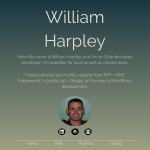
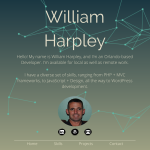
Change Header

diff --git a/wp-content/themes/fathersjourney/style.css b/wp-content/themes/fathersjourney/style.css
@@ -59,6 +59,11 @@ header {
 
 .page-header {
 	color: #fff;
+	margin-top: 20px;
+}
+
+#header-col {
+	margin-bottom: 0;
 }
 
 /******************************
@@ -156,7 +161,7 @@ li a {
 .overlay {
 	background: linear-gradient(
     rgba(0, 0, 0, .65), 
-    rgba(0, 0, 0, 1)
+    rgba(0, 0, 0, .9)
   );
   bottom: 0;
   left: 0;
@@ -234,6 +239,10 @@ li a {
 	margin-bottom: 30px;
 }
 
+.reading-col ul {
+	color: #000;
+}
+
 /******************************
 				ABOUT PAGE
 ******************************/
@@ -275,7 +284,7 @@ li a {
 }
 
 .wptreehouse-badge {
-	/*display: none;*/
+	display: none;
 }
 
 /******************************

diff --git a/wp-content/themes/fathersjourney/js/app.js b/wp-content/themes/fathersjourney/js/app.js
@@ -10,11 +10,7 @@ jQuery(document).ready(function($) {
 
 	$( '.show-badges' ).on( 'click', function(event) {
 		var link = $( '.show-badges' );
-		num = $('.wptreehouse-badge').length;
 
-		$('.wptreehouse-badge').toggle().each();
-		
-/*
 		$( '.wptreehouse-badge' ).toggle( 'fast', function() {
       if ($( '.wptreehouse-badge' ).is( ':visible' ))  {
            link.text( 'Hide Badges' );                
@@ -22,7 +18,7 @@ jQuery(document).ready(function($) {
            link.text( 'Show Badges' );                
       }        
     }); 
-*/
+
 	});
 	
 });

diff --git a/wp-content/themes/fathersjourney/single-travels.php b/wp-content/themes/fathersjourney/single-travels.php
@@ -3,22 +3,23 @@
   <div class="small-12 columns">
     <div class="page-header">
       <div class="row">
-        <div class="small-9 columns">
-          <a href="<?php the_field('link'); ?>"><h2><?php wp_title(''); ?></h2></a>
+      <div class="row">
+        <div class="small-9 columns" id="header-col">
+          <h2><?php wp_title(''); ?></h2>
         </div>
-        <div class="small-3 columns prev-next">
-          <?php next_post_link('%link', '<span class="glyphicon glyphicon-circle-arrow-left"></span>'); ?>
-          <!-- Uses the id # of the Ballparks Page -->  
-          <a href="<?php bloginfo('url'); ?>/?p=58"><span class="glyphicon glyphicon-th"></span></a>
-          <?php previous_post_link('%link', '<span class="glyphicon glyphicon-circle-arrow-right"></span>'); ?>
+        <div class="small-3 columns prev-next" id="header-col">
+          <?php next_post_link('%link', '<i class="fi-arrow-left"></i>'); ?> 
+          <a href="<?php bloginfo('url'); ?>/?p=77"><i class="fi-thumbnails"></i></a>
+          <?php previous_post_link('%link', '<i class="fi-arrow-right"></i>'); ?>
         </div>
       </div>
-      
+      </div>    
       <hr>
     </div>
     <div class="row">
-      <div class="small-12 medium-9 columns ">
+      <div class="small-12 medium-9 columns">
         <div class="reading-col">
+
 		    	<?php if ( have_posts() ) : while ( have_posts() ) : the_post(); ?>
 
               <?php if ( get_the_post_thumbnail() ) : ?>
@@ -42,7 +43,7 @@
         </div>
       </div>
 
-      <?php get_sidebar('projects'); ?>
+      <?php get_sidebar(); ?>
 
 		</div>
 	</div>

diff --git a/wp-content/themes/fathersjourney/single-projects.php b/wp-content/themes/fathersjourney/single-projects.php
@@ -2,22 +2,20 @@
 <div class="container">
   <div class="small-12 columns">
     <div class="page-header">
-      <!--<div class="row">-->
-        <div class="small-9 columns">
-          <a href="<?php the_field('link'); ?>"><h2><?php wp_title(''); ?></h2></a>
-        </div>
-        <div class="small-3 columns prev-next">
-          <?php next_post_link('%link', '<i class="fi-arrow-left"></i>'); ?> 
-          <a href="<?php bloginfo('url'); ?>/?p=69"><i class="fi-thumbnails"></i></a>
-          <?php previous_post_link('%link', '<i class="fi-arrow-right"></i>'); ?>
-        </div>
-     <!-- </div>-->
-      
+      <div class="small-9 columns" id="header-col">
+        <a href="<?php the_field('link'); ?>"><h2><?php wp_title(''); ?></h2></a>
+      </div>
+      <div class="small-3 columns prev-next" id="header-col">
+        <?php next_post_link('%link', '<i class="fi-arrow-left"></i>'); ?> 
+        <a href="<?php bloginfo('url'); ?>/?p=69"><i class="fi-thumbnails"></i></a>
+        <?php previous_post_link('%link', '<i class="fi-arrow-right"></i>'); ?>
+      </div>
       <hr>
     </div>
     <div class="row">
       <div class="small-12 medium-9 columns ">
         <div class="reading-col">
+          
 		    	<?php if ( have_posts() ) : while ( have_posts() ) : the_post(); ?>
 
               <?php if ( get_the_post_thumbnail() ) : ?>

diff --git a/wp-content/themes/fathersjourney/footer.php b/wp-content/themes/fathersjourney/footer.php
@@ -5,6 +5,16 @@
      </p>
     </footer>
   	</div>
+  	<script>
+		  (function(i,s,o,g,r,a,m){i['GoogleAnalyticsObject']=r;i[r]=i[r]||function(){
+		  (i[r].q=i[r].q||[]).push(arguments)},i[r].l=1*new Date();a=s.createElement(o),
+		  m=s.getElementsByTagName(o)[0];a.async=1;a.src=g;m.parentNode.insertBefore(a,m)
+		  })(window,document,'script','https://www.google-analytics.com/analytics.js','ga');
+
+		  ga('create', 'UA-68657371-8', 'auto');
+		  ga('send', 'pageview');
+
+		</script>
   <?php wp_footer(); ?>
   </body>
 </html>

diff --git a/wp-content/themes/fathersjourney/single.php b/wp-content/themes/fathersjourney/single.php
@@ -8,6 +8,7 @@
     <div class="row">
       <div class="small-12 medium-9 columns">
         <div class="reading-col">
+          
 		    	<?php if ( have_posts() ) : while ( have_posts() ) : the_post(); ?>
 
               <p>

diff --git a/wp-content/themes/fathersjourney/search.php b/wp-content/themes/fathersjourney/search.php
@@ -7,7 +7,6 @@
     </div>
     <div class="row">
       <div class="medium-9 columns">
-        
         <div class="primary">
 
         <?php if ( have_posts() ) : while ( have_posts() ) : the_post(); ?> 
